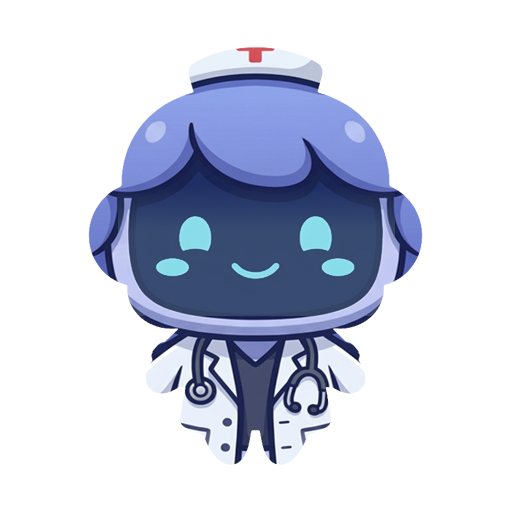
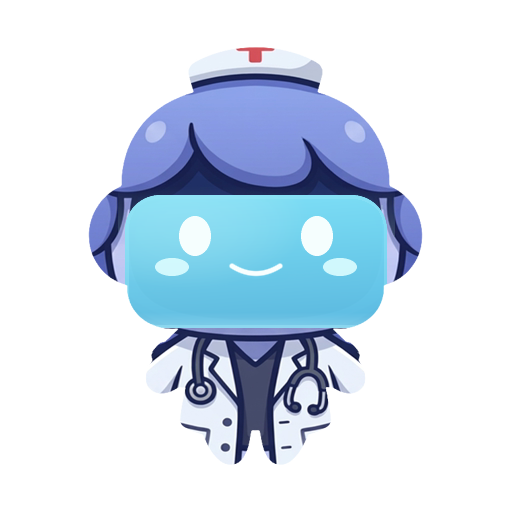
fix: brighten doctor pet face

Changed region(s): [[0.2188, 0.375, 0.7812, 0.6562]]

diff --git a/agent_doctor/pet_display.py b/agent_doctor/pet_display.py
@@ -960,8 +960,8 @@ def _draw_vector_pet(canvas: Any, snapshot: DisplaySnapshot, *, phase: float) ->
     canvas.create_text(91, 49 - bob, text="+", fill=snapshot.accent, font=("Helvetica", 14, "bold"))
 
     # Face screen.
-    canvas.create_rectangle(50, 72 - bob, 132, 119 - bob, fill="#172554", outline="#111827", width=3)
-    eye_color = "#93c5fd" if snapshot.state != "intervening" else "#ffffff"
+    canvas.create_rectangle(50, 72 - bob, 132, 119 - bob, fill="#69c9ec", outline="#2563a8", width=3)
+    eye_color = "#f8feff" if snapshot.state != "intervening" else "#ffffff"
     canvas.create_arc(70, 90 - bob, 86, 105 - bob, start=200, extent=140, style="arc", outline=eye_color, width=3)
     canvas.create_arc(100, 90 - bob, 116, 105 - bob, start=200, extent=140, style="arc", outline=eye_color, width=3)
 
@@ -1757,8 +1757,8 @@ class PetView: NSView {
         oval(120, 58 - lift, 42, 50, color("#7698f2"))
         roundRect(68, 40 - lift, 46, 18, 5, .white)
         text("+", 68, 38 - lift, 46, 22, 14, accent, true)
-        roundRect(50, 72 - lift, 82, 47, 13, color("#172554"), color("#111827"), 3)
-        let eye = state == "intervening" ? NSColor.white : color("#93c5fd")
+        roundRect(50, 72 - lift, 82, 47, 13, color("#69c9ec"), color("#2563a8"), 3)
+        let eye = state == "intervening" ? NSColor.white : color("#f8feff")
         line(70, 93 - lift, 80, 98 - lift, eye, 3)
         line(80, 98 - lift, 86, 93 - lift, eye, 3)
         line(100, 93 - lift, 110, 98 - lift, eye, 3)